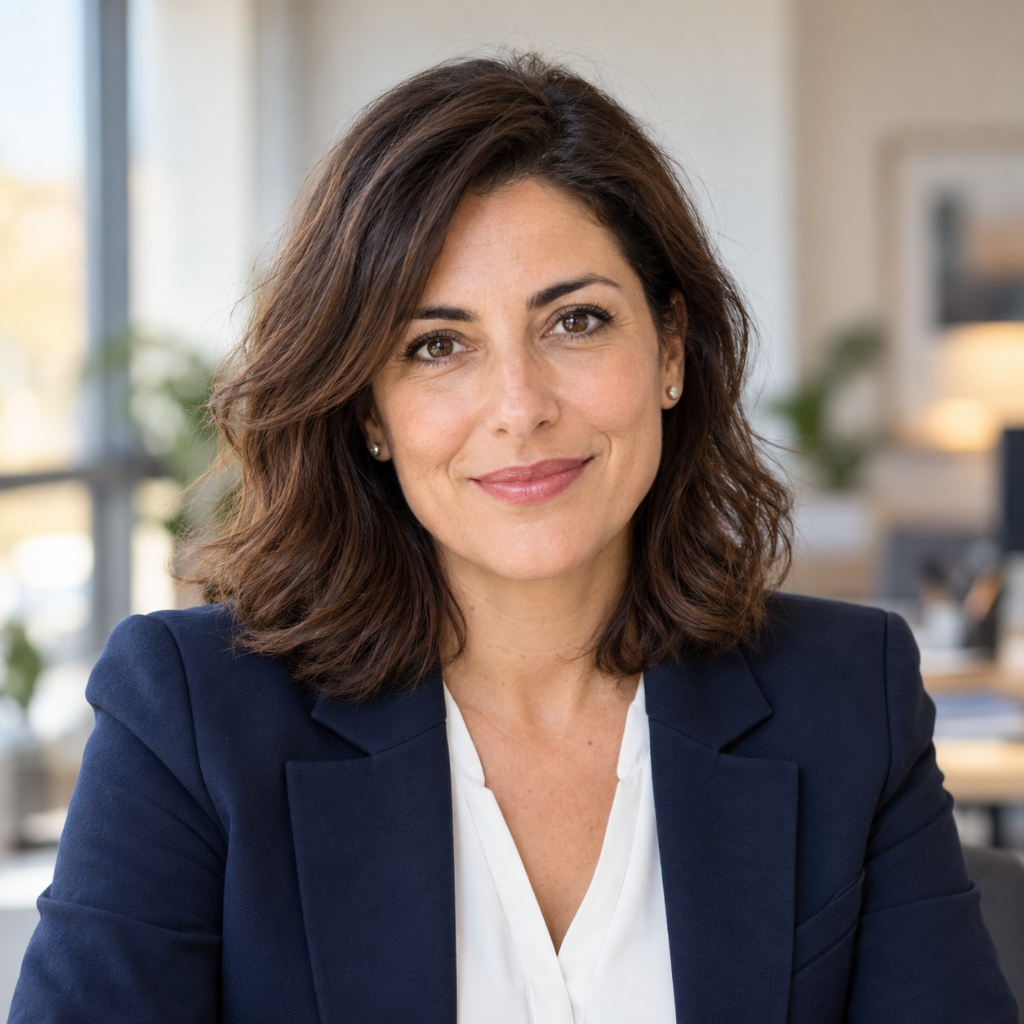
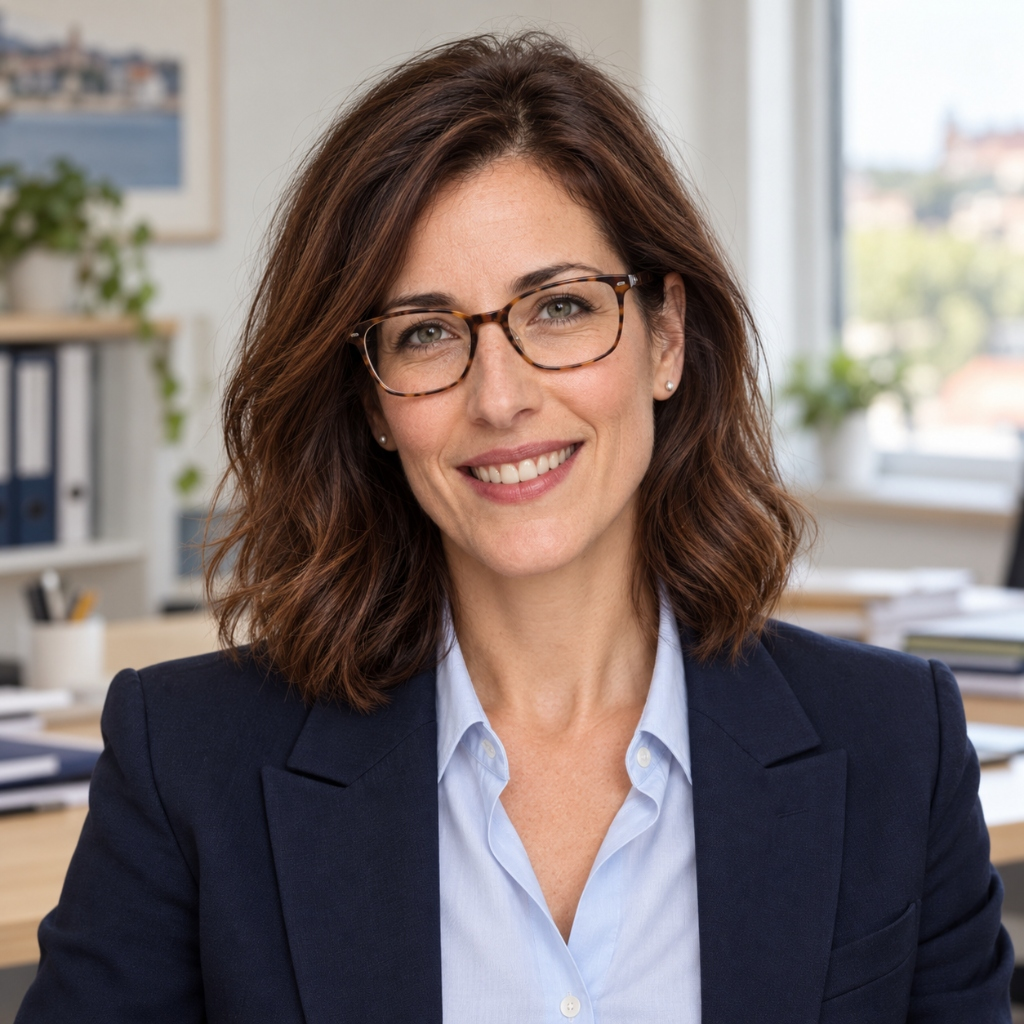
feat: actualizar fotografía oficial de María Ortiz con nuevo retrato

diff --git a/index.html b/index.html
@@ -14,7 +14,7 @@
   <meta property="og:title" content="María Ortiz Uriarte — Asesora Fiscal y Contable" />
   <meta property="og:description" content="Tus impuestos en orden, sin sustos. Contacta directamente o descarga mi contacto en tu agenda." />
   <meta property="og:url" content="https://ortizuriarteasesoria.es" />
-  <meta property="og:image" content="foto.jpg" />
+  <meta property="og:image" content="foto.jpg?v=2" />
   <meta property="og:image:width" content="1024" />
   <meta property="og:image:height" content="1024" />
 
@@ -810,7 +810,7 @@
       <!-- Avatar con Foto Oficial y Logotipo Ortiz Uriarte Asesoría -->
       <div class="avatar-wrapper">
         <div class="avatar-circle">
-          <img src="foto.jpg" alt="Foto de perfil de María Ortiz Uriarte" class="avatar-img" />
+          <img src="foto.jpg?v=2" alt="Foto de perfil de María Ortiz Uriarte" class="avatar-img" />
         </div>
         <div class="avatar-meta">
           <img src="logo.png?v=4" alt="Ortiz Uriarte Asesoría" class="avatar-logo-img" />
